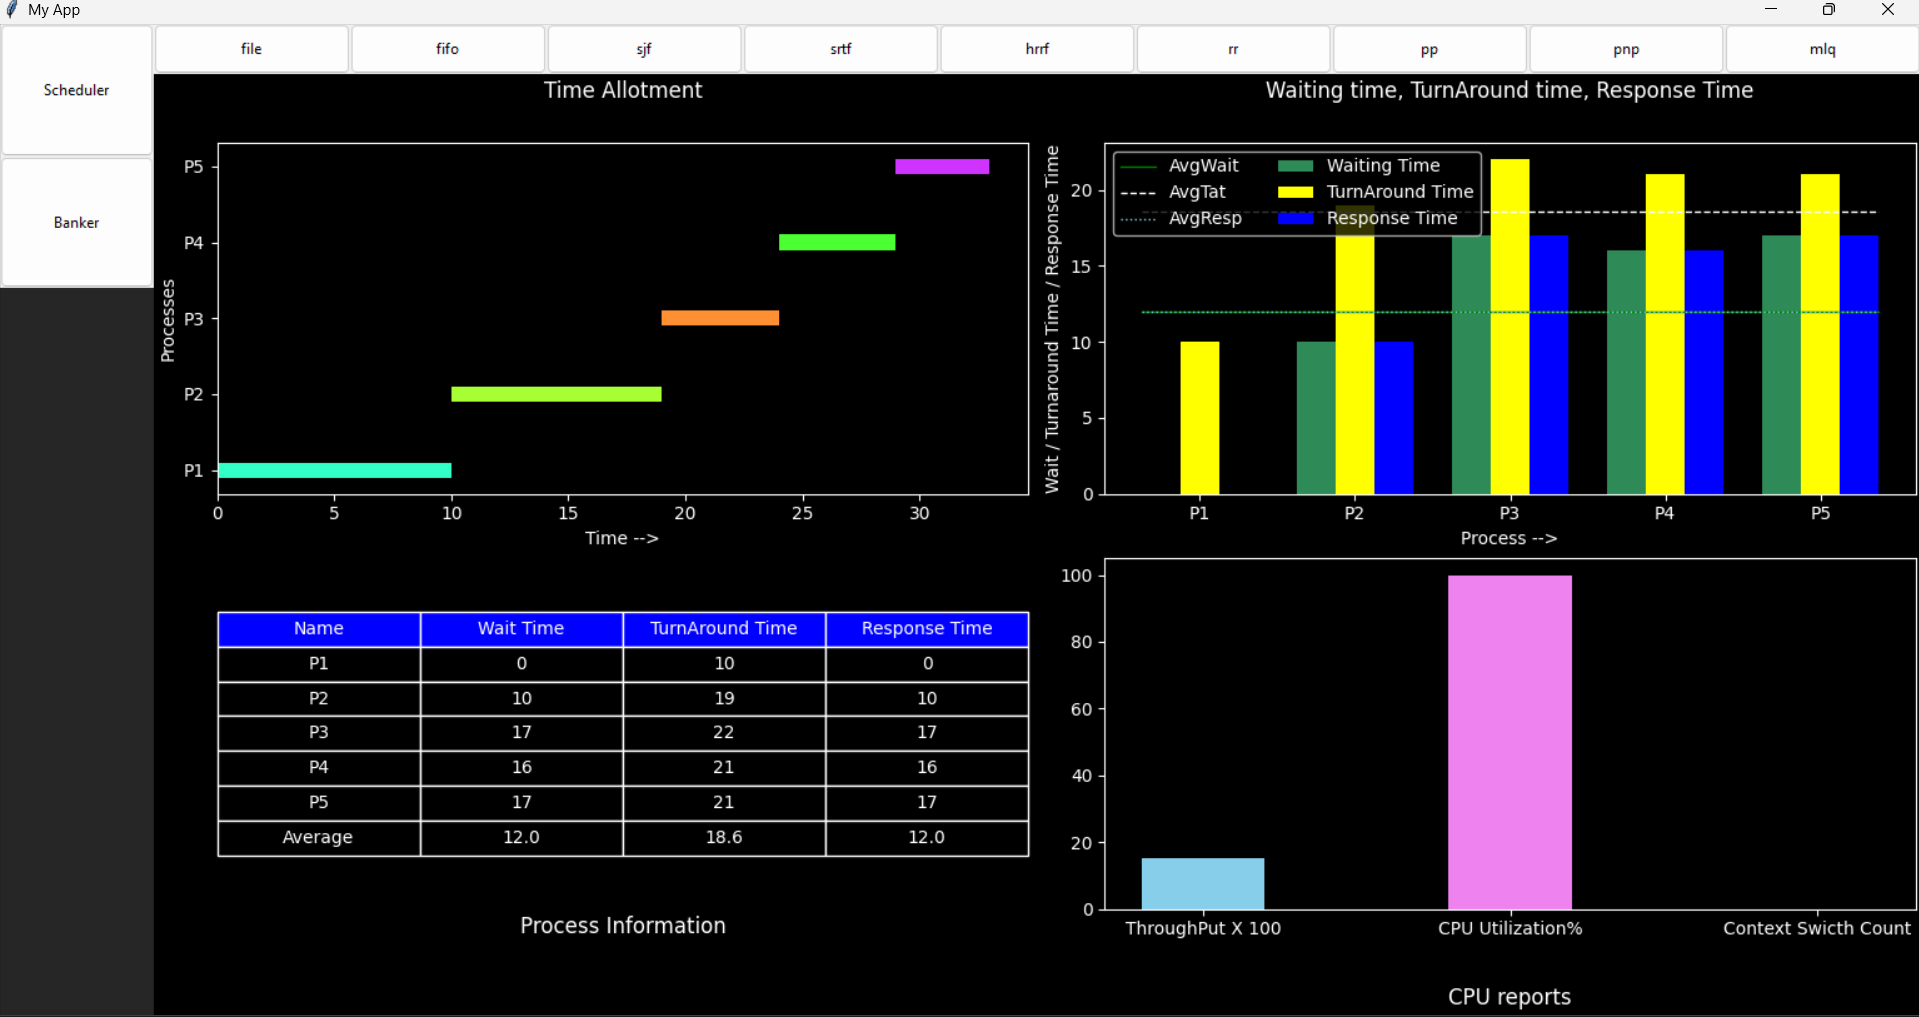
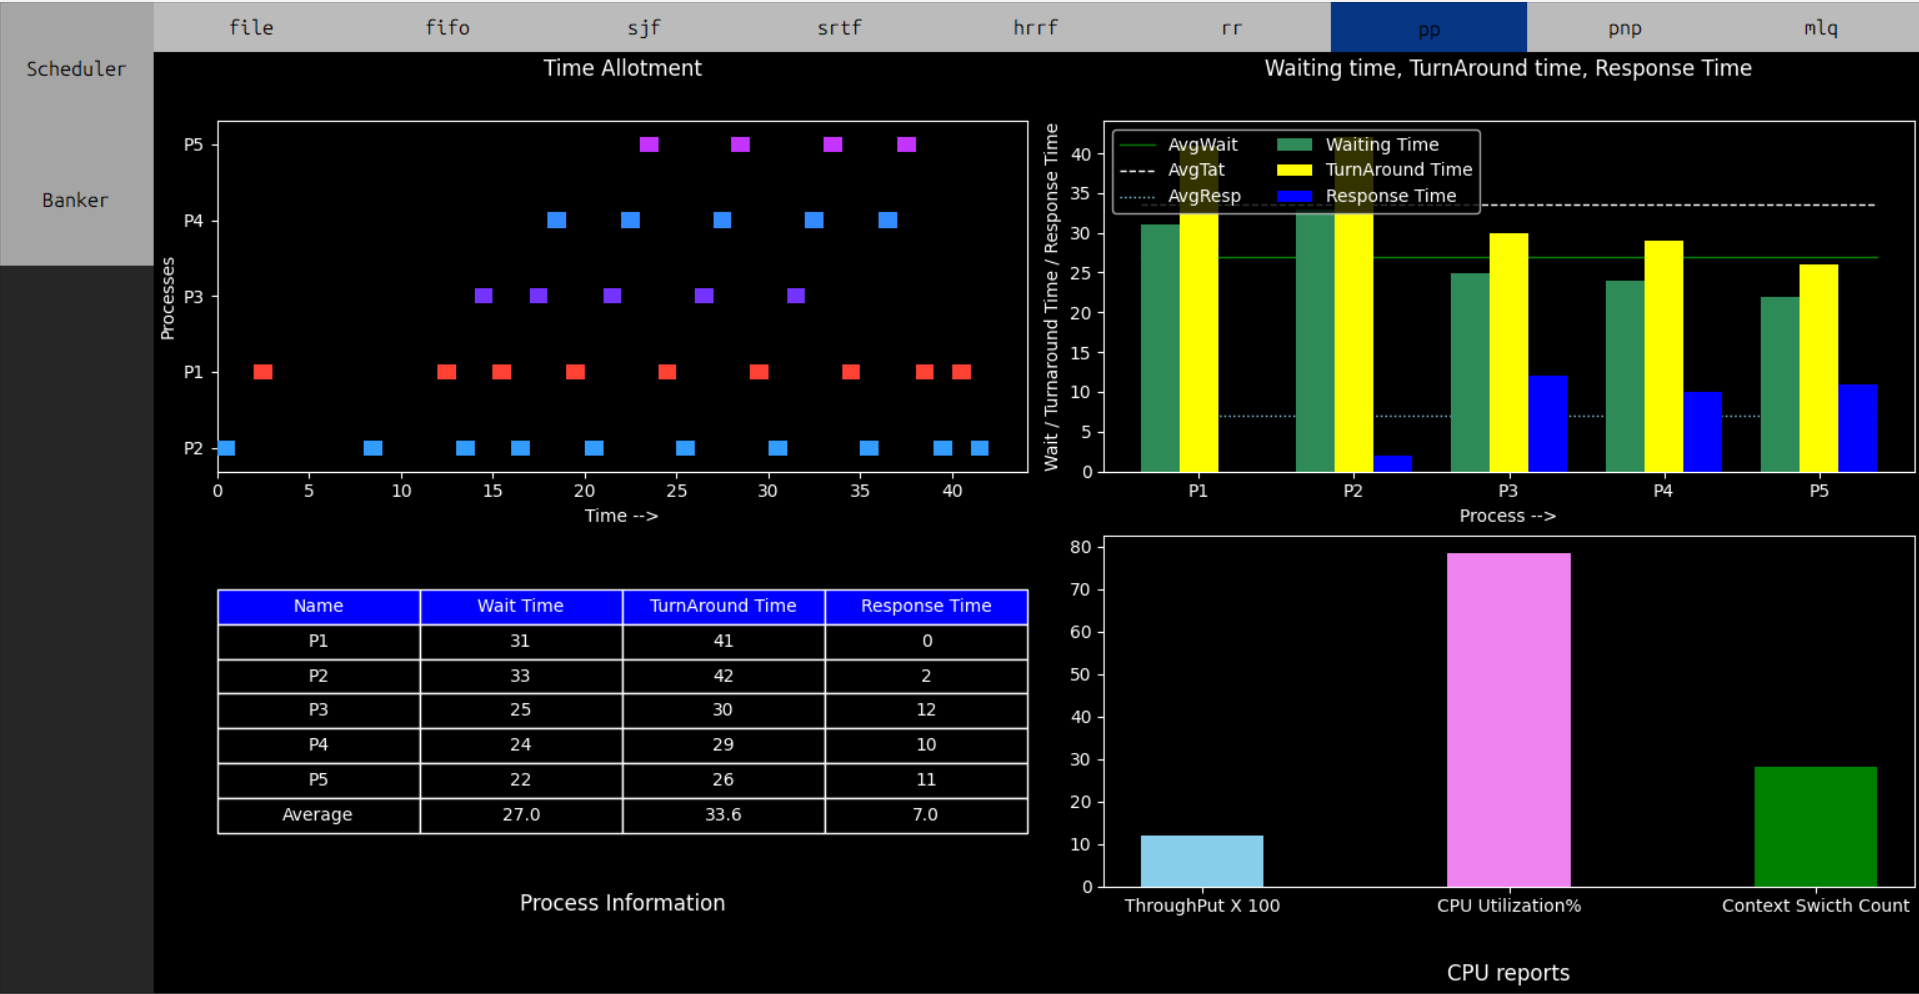
Additional fixes in preemptive priority logic(Maybe more to fix)

diff --git a/schedulers.py b/schedulers.py
@@ -260,10 +260,10 @@ class Scheduler:
         temp = []
         for i in range(0, len(pdl)):
             temp.append((proclist[i][1], proclist[i][2], i))
-        temp.sort(reverse=False)
+        temp.sort(reverse=False, key=lambda x: (x[0], pdl[x[2]], x[1]))
         heap = []; intervals = []; tat = {}; wt = []; rt = {}; contextsw = 0
         i = 0
-        heapq.heapify(heap); tm = temp[0][0]
+        heapq.heapify(heap); tm = 0
         while True:
             if i == len(temp) and len(heap) == 0:
                 break
